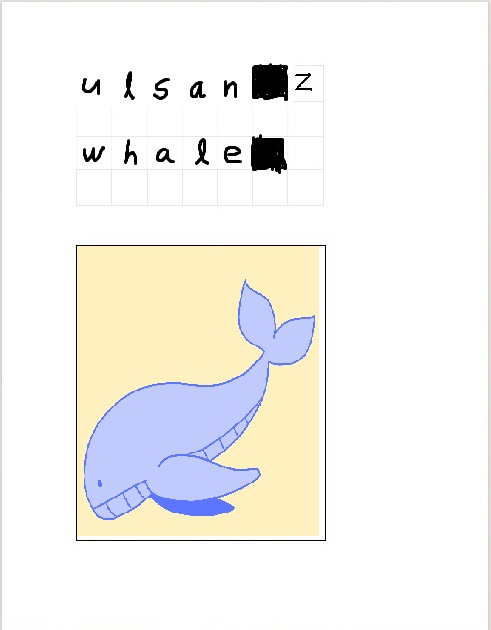
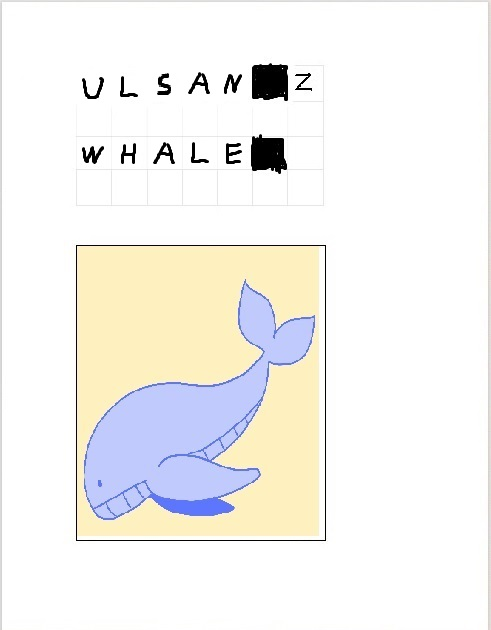
사진 대문자로 변경 및 인식률 개선

diff --git a/CodeBreaker/main.py b/CodeBreaker/main.py
@@ -41,6 +41,9 @@ def makingCover():
     from imageDetection import imageDetection
     charLi1 = imageDetection.doTheImageClassficationByList(chracterImageLi_1)
     charLi2 = imageDetection.doTheImageClassficationByList(chracterImageLi_2)
+    print(charLi1)
+    print(charLi2)
+
     # print(charLi1)
     # print(charLi2)
 
